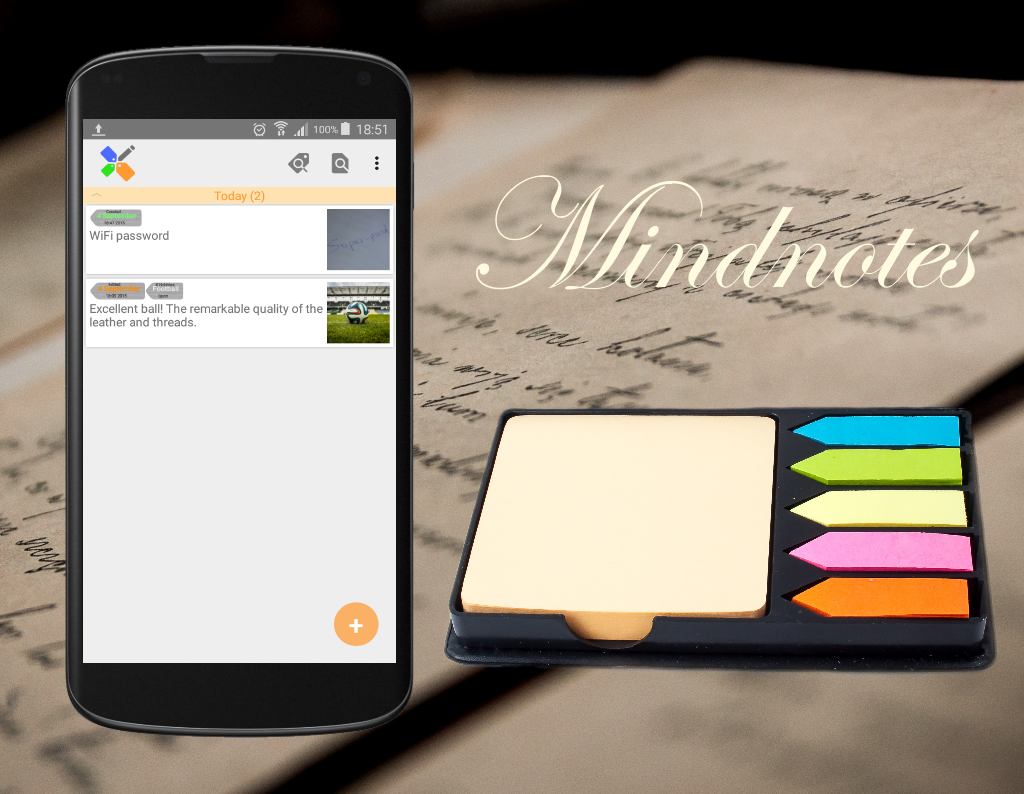
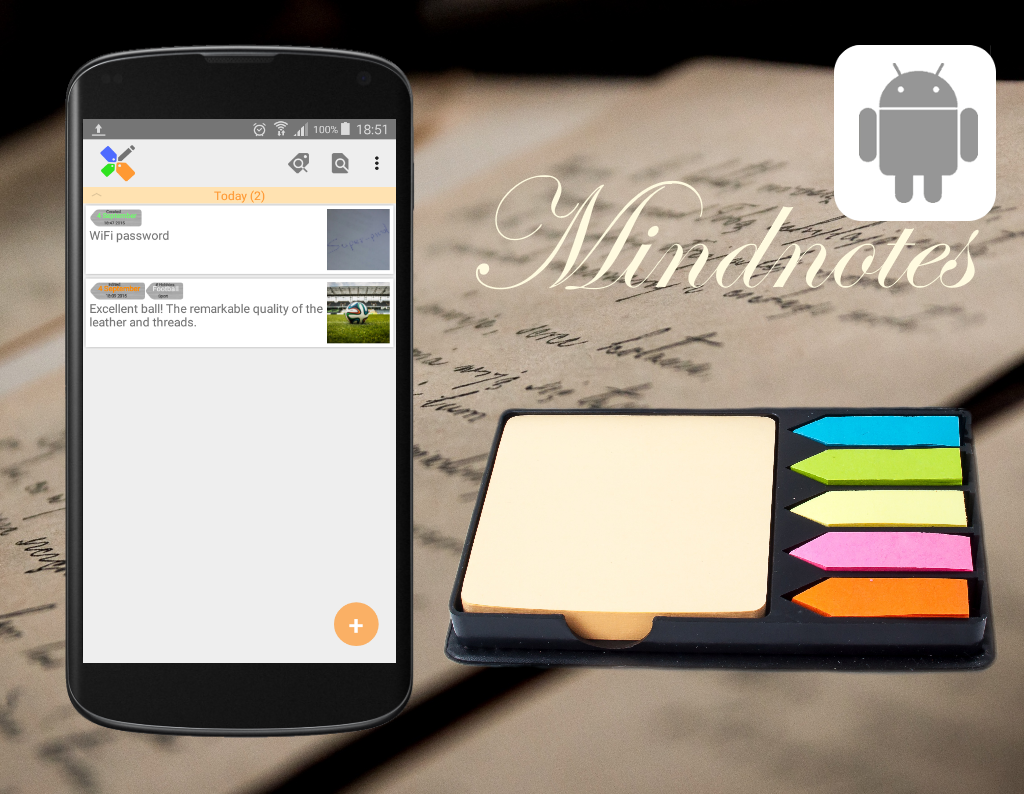
add ios timer

Changed region(s): [[0.8125, 0.0302, 1.0, 0.3023]]

diff --git a/templates/base.html b/templates/base.html
@@ -250,16 +250,16 @@
 
                 <div class="portfolio_block columns3   pretty" data-animated="fadeIn">
                     <div class="element col-sm-4   gall android">
-                        <a class="plS" href="{% static 'assets/images/prettyPhotoImages/avi.jpg' %}" rel="prettyPhoto[gallery2]">
-                            <img class="img-responsive picsGall" src="{% static 'assets/images/prettyPhotoImages/thumb_avi.jpg' %}"
-                                 alt="{% trans "Breathing exercises: Mind balance" %}"/>
+                        <a class="plS" href="{% static 'assets/images/prettyPhotoImages/avi_android.png' %}" rel="prettyPhoto[gallery2]">
+                            <img class="img-responsive picsGall" src="{% static 'assets/images/prettyPhotoImages/avi_android.png' %}"
+                                 alt="{% trans "Universal Breathing Exercise Timer!" %}"/>
                         </a>
 
                         <div class="view project_descr">
                             <h3>
                                 <a target="_blank"
                                    href="https://play.google.com/store/apps/details?id=net.neatapps.avi.app">
-                                    {% trans "Breathing exercises: Mind balance" %}
+                                    {% trans "Universal Breathing Exercise Timer!" %}
                                 </a>
                             </h3>
                             <ul>
@@ -268,13 +268,28 @@
                         </div>
                     </div>
                     <div class="element col-sm-4  gall android">
-                        <a class="plS" href="{% static 'assets/images/prettyPhotoImages/thumb_mindnotes.png' %}" rel="prettyPhoto[gallery2]">
-                            <img class="img-responsive picsGall" src="{% static 'assets/images/prettyPhotoImages/thumb_mindnotes.png' %}"
+                        <a class="plS" href="{% static 'assets/images/prettyPhotoImages/thumb_mindnotes_android.png' %}" rel="prettyPhoto[gallery2]">
+                            <img class="img-responsive picsGall" src="{% static 'assets/images/prettyPhotoImages/thumb_mindnotes_android.png' %}"
                                  alt="{% trans "Mindnotes: notepad with tags and sub-tags!" %}"/>
                         </a>
 
                         <div class="view project_descr center">
                             <h3><a target="_blank" href="https://play.google.com/store/apps/details?id=net.neatapps.mindnotes">{% trans "Mindnotes: notepad with tags and sub-tags!" %}</a></h3>
+                            <ul>
+                                <br>
+                            </ul>
+                        </div>
+                    </div>
+                    <div class="element col-sm-4  gall ios">
+                        <a class="plS" href="{% static 'assets/images/prettyPhotoImages/avi_ios.png' %}" rel="prettyPhoto[gallery2]">
+                            <img class="img-responsive picsGall" src="{% static 'assets/images/prettyPhotoImages/avi_ios.png' %}"
+                                 alt="{% trans "Universal Breathing Exercise Timer!" %}"/>
+                        </a>
+
+                        <div class="view project_descr center">
+                            <h3><a target="_blank" href="https://itunes.apple.com/us/app/anuloma-viloma-trainer/id1020228511?ls=1&mt=8">
+                                {% trans "Universal Breathing Exercise Timer!" %}</a>
+                            </h3>
                             <ul>
                                 <br>
                             </ul>
